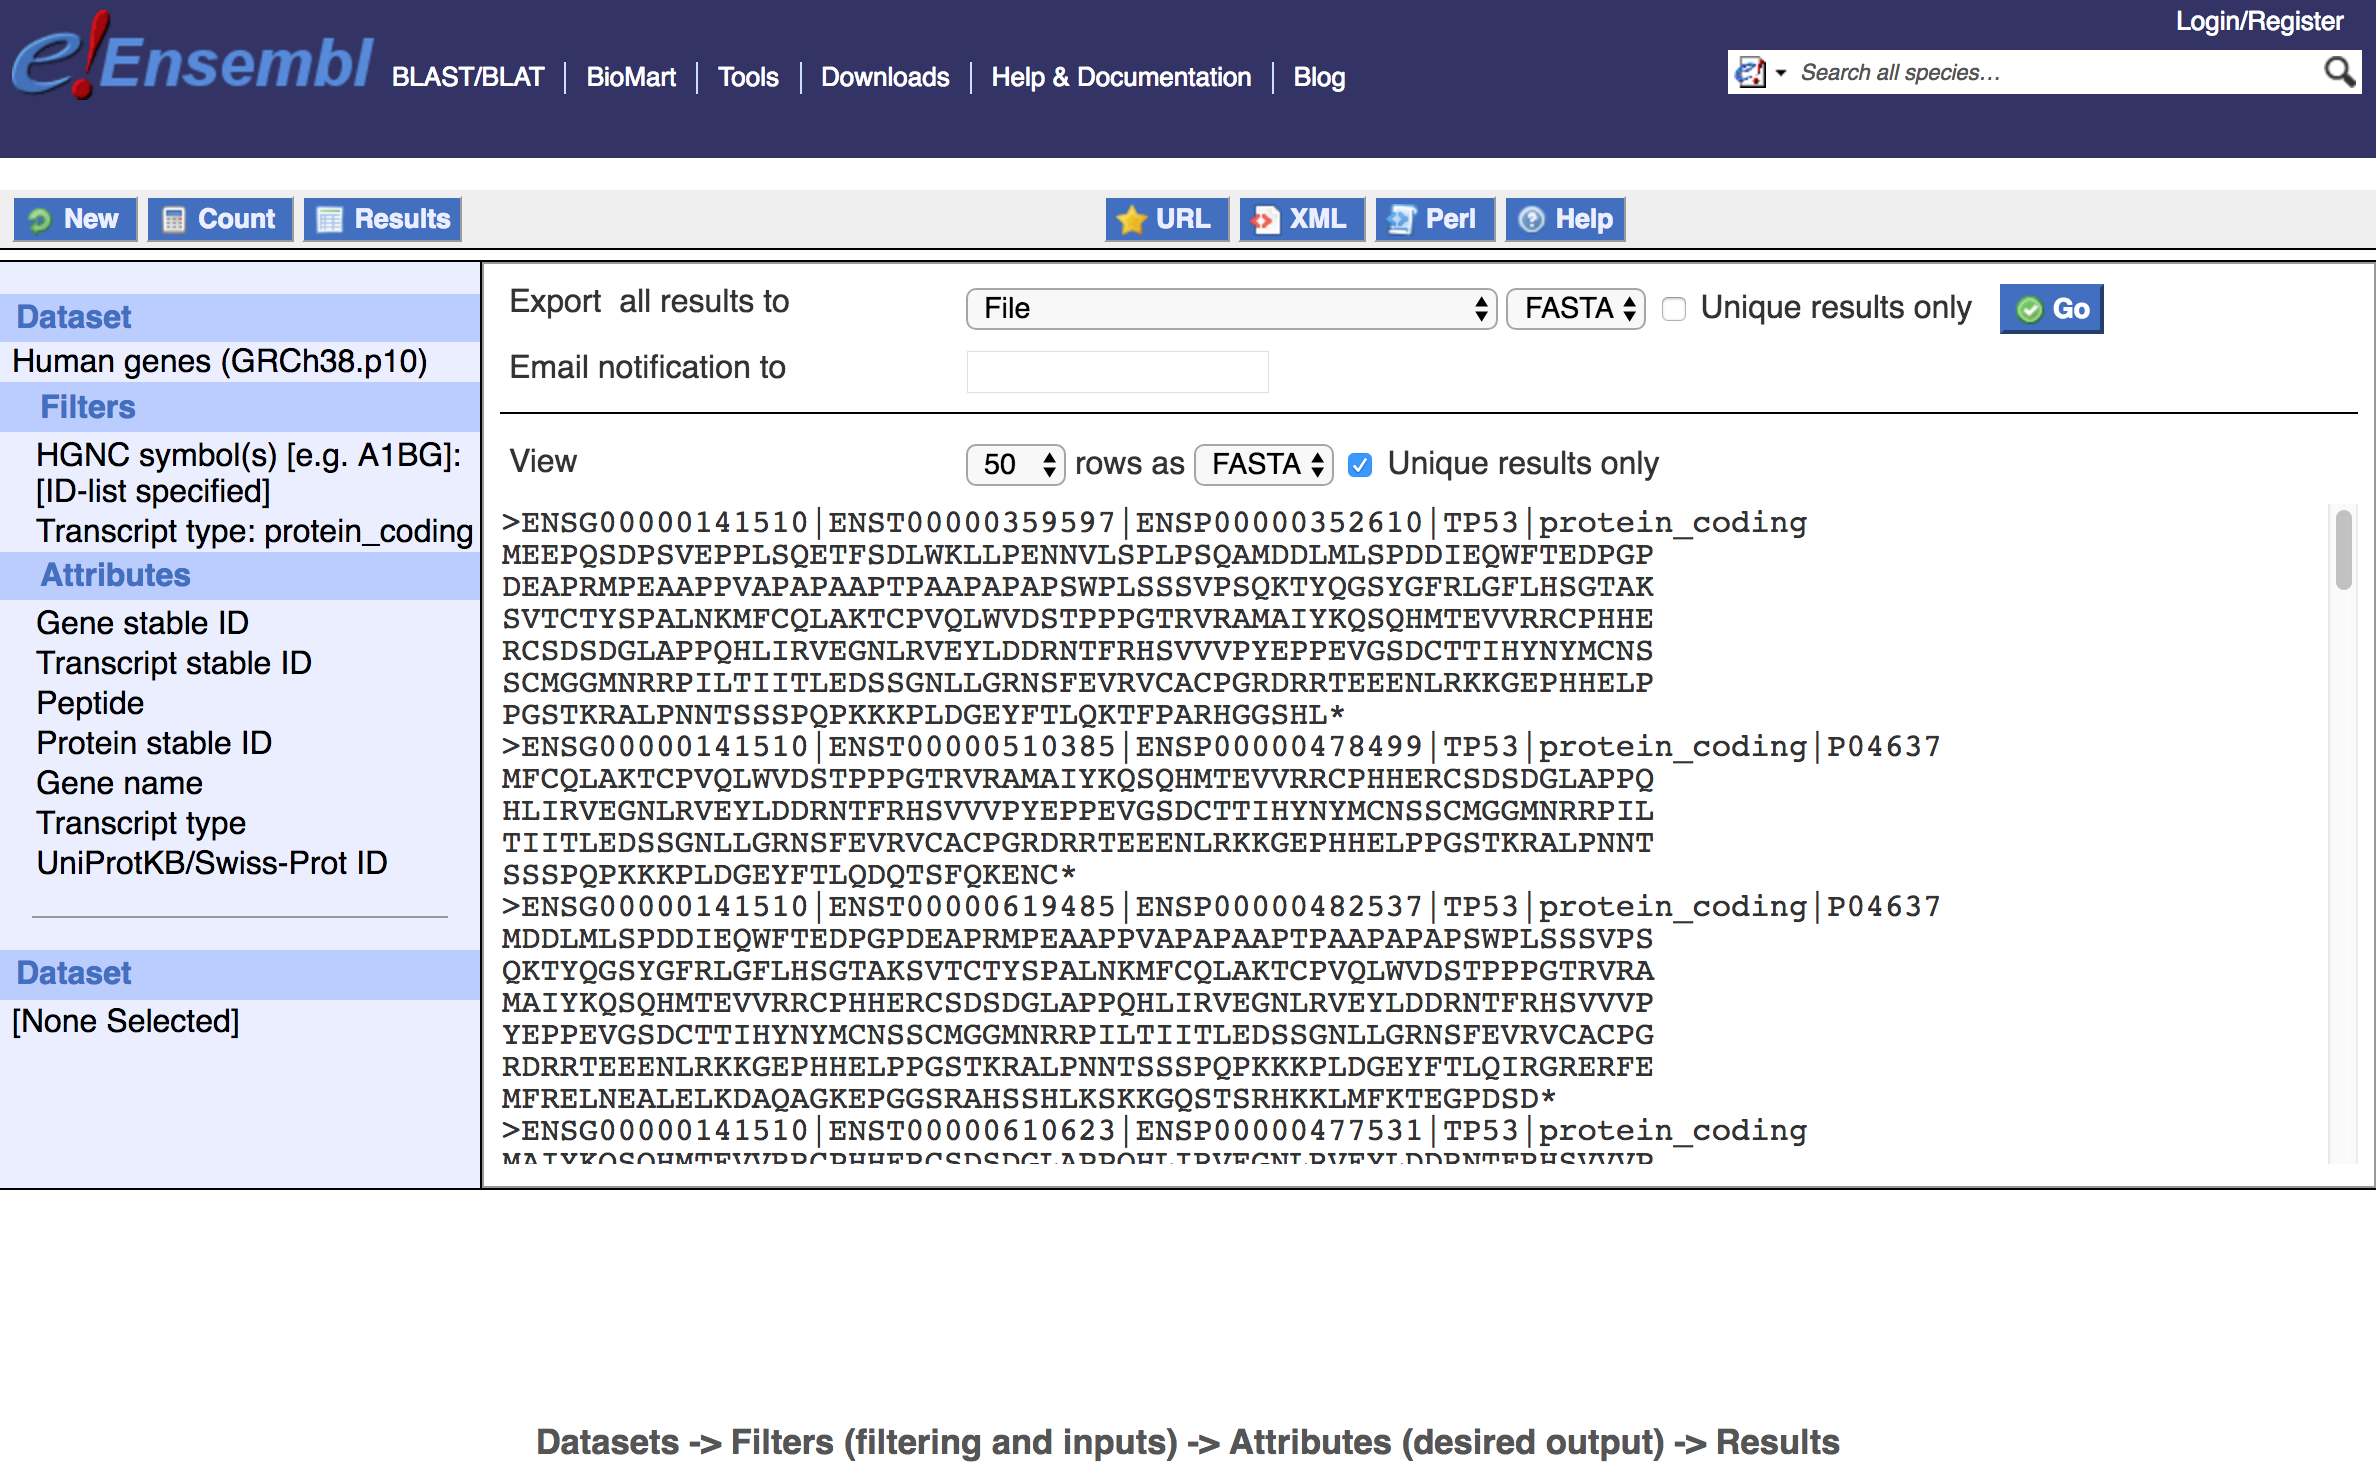
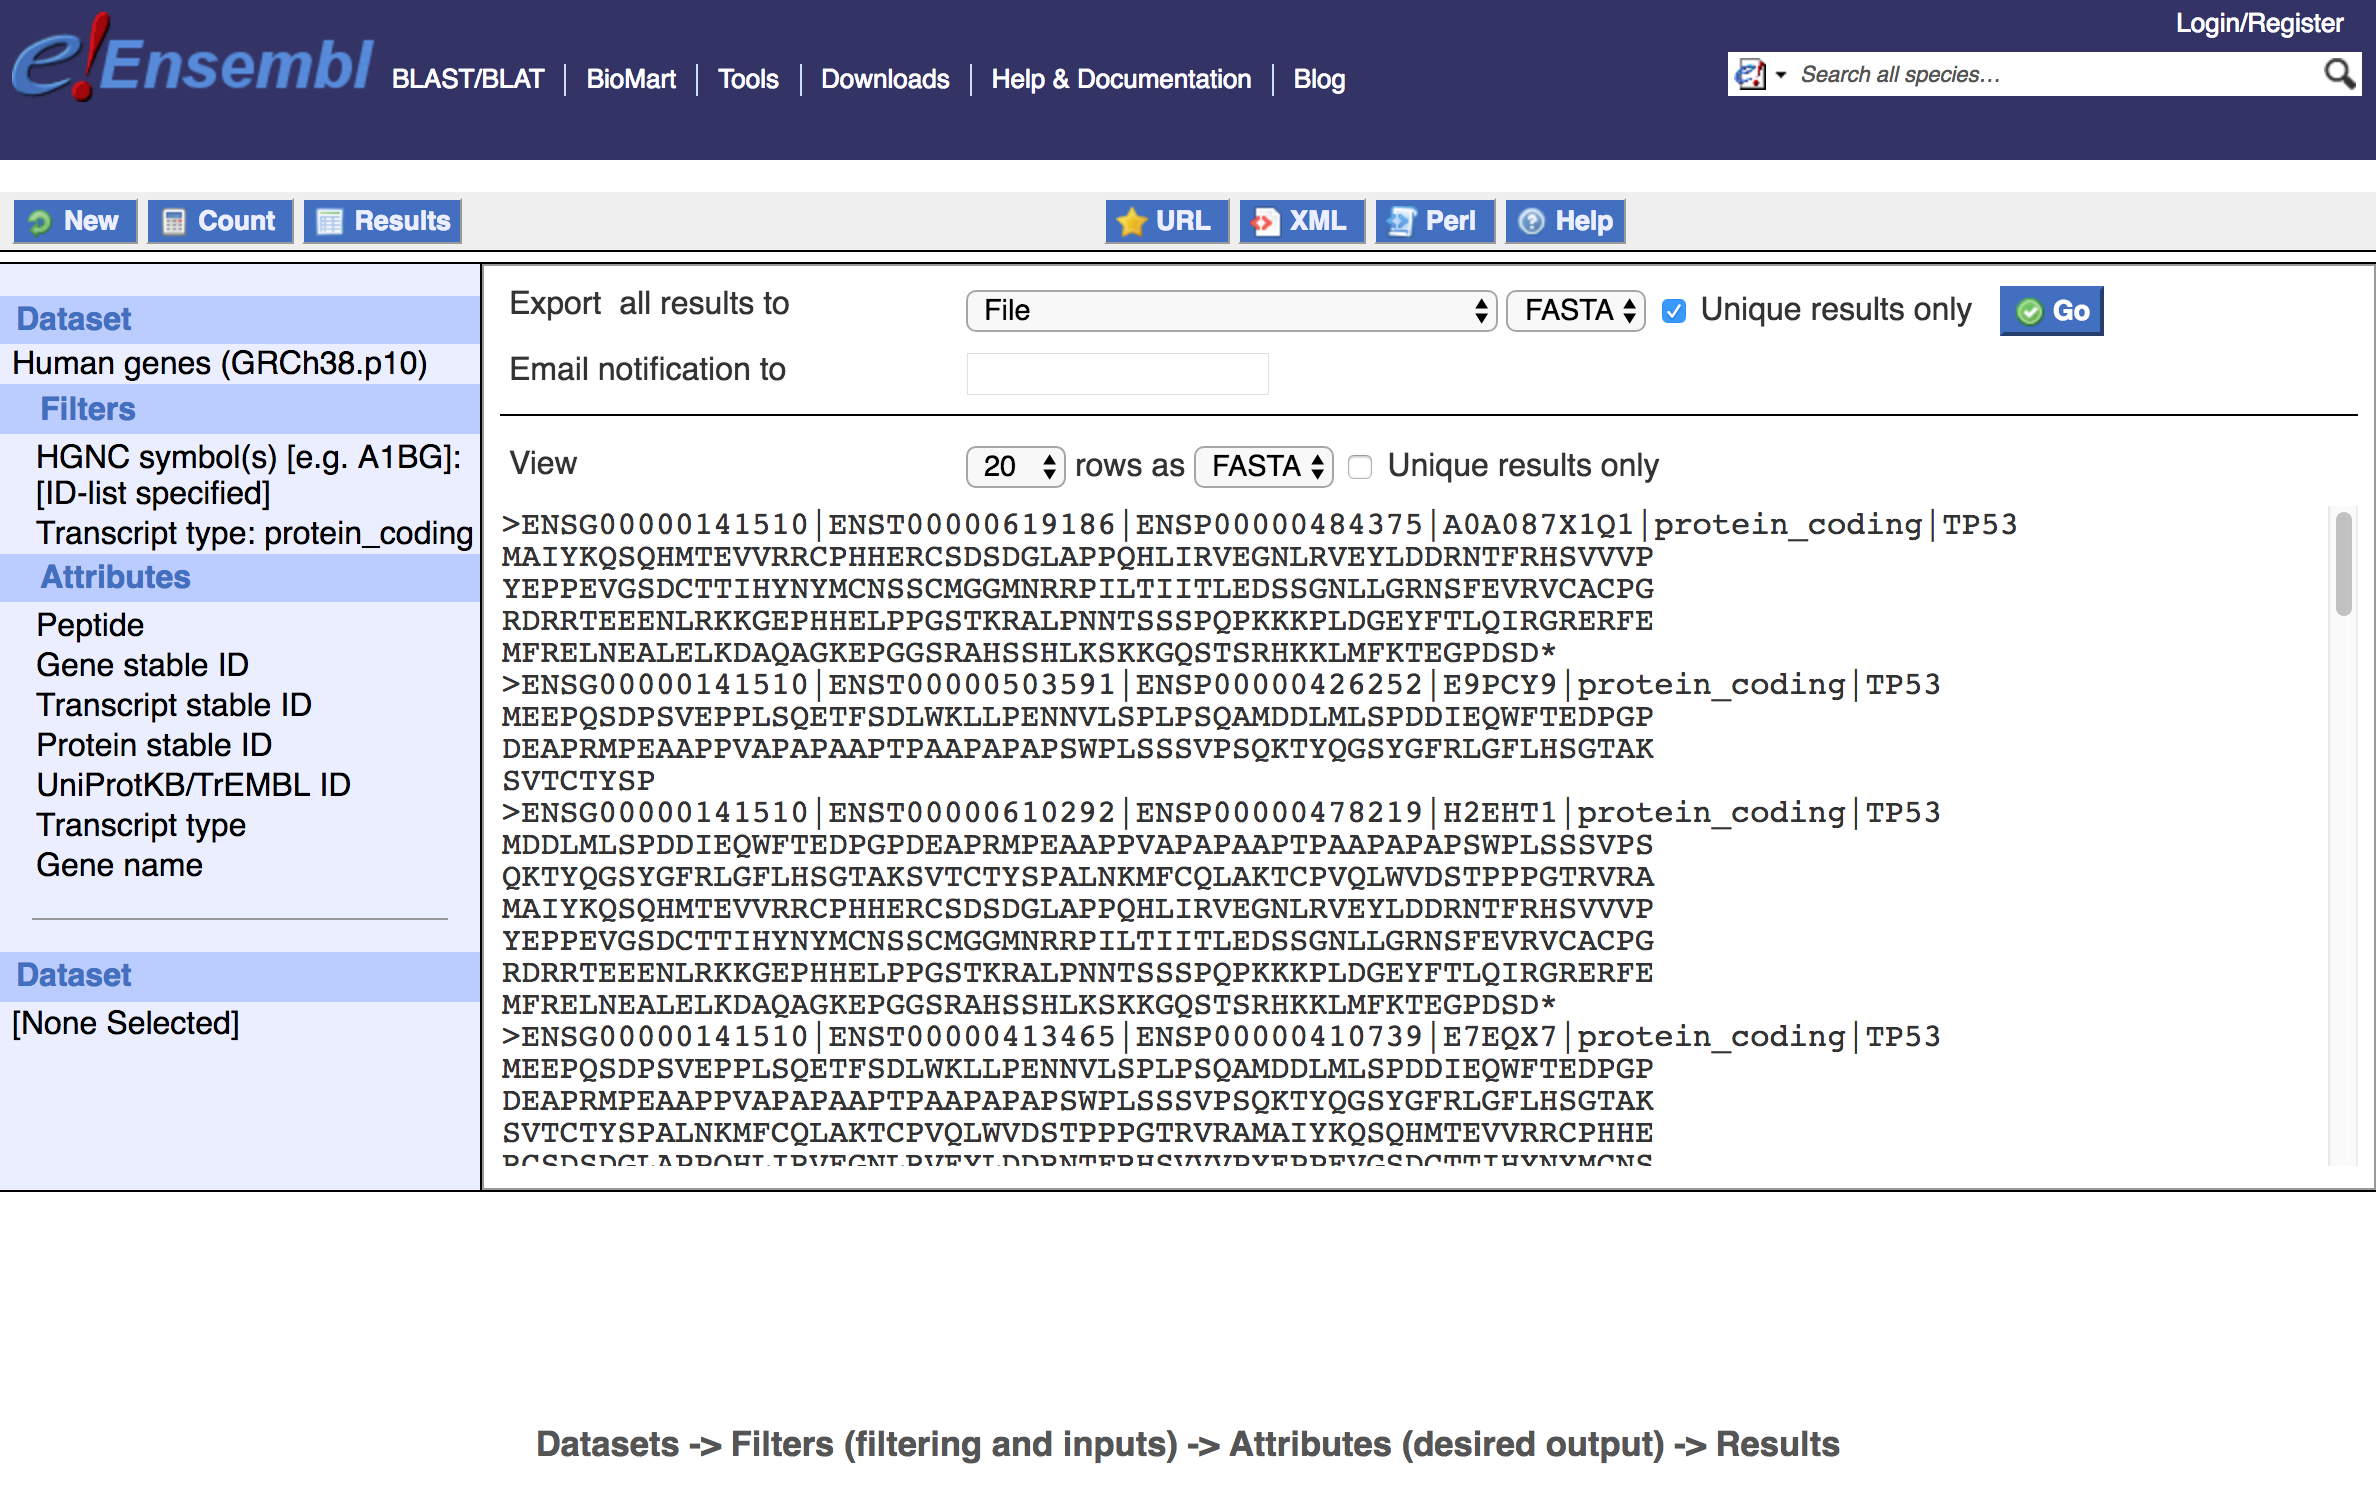
clean up of sequence section of biomart module

diff --git a/_posts/0001-06-01-ensemblBiomart.md b/_posts/0001-06-01-ensemblBiomart.md
@@ -15,11 +15,11 @@ To browse [Ensembl BioMart](http://www.ensembl.org/biomart/martview) you can sim
 
 {% include figure.html image="/assets/BioMart/BioMart_start.png" width="1000" %}
 
-You will first need to select a database from the *CHOOSE DATABASE* menu. Currently, this can be any of: Ensembl Genes, Mouse Strains, Ensembl Variation, or Ensembl Regulation. Note, the database version is included in the name (e.g., Ensembl Genes 90). The Ensembl Genes dataset is probably the most commonly desired choice, depending on your purpose. Next, you will select a dataset from the *CHOOSE DATASET* menu, which for Genes means selecting a species (e.g., Human genes (GRCh38.p10)). For illustration, we will walk through some examples using the *Ensembl Genes 90* database and *Human genes* dataset. Once a database and dataset have been selection, you have the option to apply *Filters* and desired *Attributes* from the left panel. Note that two attributes (Gene stable ID, and Transcript stable ID) have been pre-selected for us.
+To do anything, you will first need to select a database from the *CHOOSE DATABASE* menu. Currently, this can be any of: Ensembl Genes, Mouse Strains, Ensembl Variation, or Ensembl Regulation. Note, the database version is included in the name (e.g., Ensembl Genes 90). The Ensembl Genes dataset is probably the most commonly desired choice, depending on your purpose. Next, you will select a dataset from the *CHOOSE DATASET* menu, which for Genes means selecting a species (e.g., Human genes (GRCh38.p10)). For illustration, we will walk through some examples using the *Ensembl Genes 90* database and *Human genes* dataset. Once a database and dataset have been selected, you have the option to apply *Filters* and desired *Attributes* from the left panel. Note that two attributes (Gene stable ID, and Transcript stable ID) have been pre-selected for us.
 
 {% include figure.html image="/assets/BioMart/BioMart_prefilter.png" width="1000" %}
 
-If we were to select the *Results* we would get the complete Gene and Transcript stable IDs for all genes in the Human Ensembl Genes (v90) database (see below). By default, 10 rows of results in HTML format (including hyperlinks to Ensembl pages) are shown. Selecting *Count* would give us a numerical summary of all records. In this case there are 63,967 results (Ensembl genes) available. We have the option to view or export in HTML or plain text (TSV or CSV) and also to export as XLS. Depending on what attributes are selected for display, there may be redundant results. For example, if we ask for only HGNC symbol as an attribute, BioMart will return the symbol for every Ensembl gene. Some Ensembl genes have the same HGNC symbol. Selecting *Unique results only* will filter out any redundant result rows from the display or exported file. Selecting *New* would reset our BioMart query.
+If we were to select *Results* now you would get the complete Gene and Transcript stable IDs for all genes in the Human Ensembl Genes (v90) database (see below). By default, 10 rows of results in HTML format (including hyperlinks to Ensembl pages) are shown. Selecting *Count* would give us a numerical summary of all records. In this case there are 63,967 results (Ensembl genes) available. We have the option to view or export in HTML or plain text (TSV or CSV) and also to export as XLS. Depending on what attributes are selected for display, there may be redundant results. For example, if we ask for only HGNC symbol as an attribute, BioMart will return the symbol for every Ensembl gene. Some Ensembl genes have the same HGNC symbol. Selecting *Unique results only* will filter out any redundant result rows from the display or exported file. Selecting *New* would reset our BioMart query.
 
 {% include figure.html image="/assets/BioMart/BioMart_simple_results.png" width="1000" %}
 
@@ -28,25 +28,32 @@ The *Filters* option (left panel) allows for very powerful filtering. Again, usi
 
 {% include figure.html image="/assets/BioMart/BioMart_simple_filter.png" width="1000" %}
 
-By selecting *Count* and then *Results*, limiting to *Unique results only* and increasing the *View* to 20, we can see that there are 12 Ensembl genes in this region, including 11 with HGNC symbols. This region includes the genes commonly amplified in HER2+ (ERBB2+) breast cancer. Note that one gene (IKZF3) starts within the filter region but its *Gene end* extends beyond it. This tells us something importance about how BioMart applies coordinate filtering. If we wanted only genes entirely contained within the region we would need to apply our own additional filters. 
+By selecting *Count* and then *Results*, limiting to *Unique results only* and increasing the *View* to 20, we can see that there are 12 Ensembl genes in this region, including 11 with HGNC symbols. This region includes the genes commonly amplified in HER2+ (ERBB2+) breast cancer. Note that one gene (IKZF3) starts within the filter region but its *Gene end* extends beyond it. This tells us something important about how BioMart applies coordinate filtering. If we wanted only genes entirely contained within the region we would need to apply our own additional filters. 
 
 {% include figure.html image="/assets/BioMart/BioMart_simple_filter_results.png" width="1000" %}
 
 ### Gene ID Mapping
 
-Another very common use of BioMart is for gene ID mapping. In the *Gene* section of *Filters* it is possible to limit to only Ensembl genes that have at least one of a specific source of associated external gene ID or associated microarray probe(set). A very large number of such external gene ID sources (e.g., CCDS, Entrez, GO, HGNC, LRG, RefSeq, Unigene, etc) or microarray platforms (e.g., Affymetrix, Agilent, Illumina) are supported. It is also possible to input a list of specific external IDs or probe(set) IDs of interest and get back the matching Ensembl gene records. For example, lets suppose that we had the list of HGNC gene symbols for the HER2-amplified region mentioned above (NEUROD2, PPP1R1B, STARD3, TCAP, PNMT, PGAP3, ERBB2, MIR4728, MIEN1, GRB7, IKZF3) and we wanted to know the corresponding Ensembl gene records and relevant attributes. Create a *New* query and again select the *Ensembl Genes 90* database and *Human genes* dataset. Go to *Filters* -> *GENE*, check *Input external references ID list*, select *HGNC symbol(s)* and enter the above genes in the box (one per line). Now go to *Attributes* -> *Features* and choose GENE: Ensembl - Gene stable ID, Chromosome, Gene start, Gene end, Gene name; EXTERNAL: GO - GO term name; External References - HGNC symbol; Select *Results*.
+Another very common use of BioMart is for gene ID mapping. In the *Gene* section of *Filters* it is possible to limit to only Ensembl genes that have at least one associated external gene ID or microarray probe(set) from a specific source. A very large number of such external gene ID sources (e.g., CCDS, Entrez, GO, HGNC, LRG, RefSeq, Unigene, etc) or microarray platforms (e.g., Affymetrix, Agilent, Illumina) are available. It is also possible to input a list of individual external IDs or probe(set) IDs of interest and get back the matching Ensembl gene records. For example, lets suppose that we had the list of HGNC gene symbols for the HER2-amplified region mentioned above (NEUROD2, PPP1R1B, STARD3, TCAP, PNMT, PGAP3, ERBB2, MIR4728, MIEN1, GRB7, IKZF3) and we wanted to know the corresponding Ensembl gene records and relevant attributes. Create a *New* query and again select the *Ensembl Genes 90* database and *Human genes* dataset. Go to *Filters* -> *GENE*, check *Input external references ID list*, select *HGNC symbol(s)* and enter the above genes in the box (one per line). Now go to *Attributes* -> *Features* and choose GENE: Ensembl - Gene stable ID, Chromosome, Gene start, Gene end, Gene name; EXTERNAL: External References - HGNC symbol; Select *Results*. We now have direct mapping of HGNC symbols to Ensembl Gene IDs and associated attributes. 
 
 {% include figure.html image="/assets/BioMart/BioMart_mapping_results.png" width="1000" %}
 
-Note: It is important to remember that this procedure for mapping only works for genes that are represented in Ensembl gene annotations and is dependent on their internal mapping between identifiers. It is possible that a valid protein might exist in UniProt and might have a valid link to an Entrez gene according to some Entrez or UniProt mapping process. But, if this gene was not successfully annotated in Ensembl or not successfully linked to both of these identifiers then it would be impossible to use BioMart to map from one to the other. Gene ID mapping is complex with multiple types of underlying analysis (methods for sequence or coordinate comparison) and there may be one-to-many or many-to-many relationships. Ensembl and BioMart provide one valuable tool for dealing with this problem but edge cases exist. It is always a good idea to determine which genes have failed to map and determine whether this is acceptable to you. 
+Note: It is important to remember that this procedure for mapping only works for genes that are represented as Ensembl gene annotations and is also dependent on their internal mapping between identifiers. It is possible that a valid protein might exist in another system (e.g., UniProt) and might have a valid link to another system (e.g., Entrez Gene) according to some (Entrez or UniProt) mapping process. But, if this gene was not successfully annotated in Ensembl or not successfully linked to both of these identifiers then it would be impossible to use BioMart to map from one to the other. Gene ID mapping is complex with multiple types of underlying analysis (methods for sequence or coordinate comparison) to determine equivalence and there may be one-to-many or many-to-many relationships. Ensembl and BioMart provide a valuable tool for dealing with this problem. However edge cases exist where it may not suit your purpose. It is always a good idea to determine which genes have failed to map and determine whether this is acceptable to you. 
 
-Also note: In the above query we asked for both the Ensembl Gene name and HGNC symbol. In many cases these are the same but not always. In some cases where an HGNC symbol has not yet (or recently) been assigned Ensembl may choose another source or convention for gene name.
+Also note: In the above query we asked for both the Ensembl Gene name and HGNC symbol. In many cases these are the same but not always. In some cases where an HGNC symbol has not yet (or recently) been assigned, Ensembl may choose another source or convention for its Gene name.
 
 ### Getting Sequence Attributes
 
 Another powerful application of BioMart is for the retrieval of *Sequence* attributes for specific genes or transcripts. Suppose that we would like all peptide sequences for protein-coding transcripts of TP53. Create a *New* query and again select the *Ensembl Genes 90* database and *Human genes* dataset. Go           to *Filters* -> *GENE*, check *Input external references ID list*, select *HGNC symbol(s)* and enter TP53 in the box. Also, select *Transcript type* = *protein_coding*. Now go to *Attributes* -> *Sequences* and choose SEQUENCES: Sequences - Peptide; HEADER INFORMATIN: Gene Information - Gene stable ID, Gene name, UniProtKB/Swiss-Prot ID; Transcript Information - Transcript stable ID, Protein stable ID, Transcript type; Select *Results*.
 
 {% include figure.html image="/assets/BioMart/BioMart_sequences.png" width="1000" %}
+
+Here (above) we see peptide sequences in fasta format for all protein-coding Ensembl transcripts. Where available, the UniProt ID is listed along with Ensembl gene name, and gene, transcript, and protein ids. Download the fasta file by selecting *Export all results*, *File*, *FASTA*, *Unique results only*, and *Go*. Open the file in a text editor/viewer. Note that for some transcripts the peptides do not start with a methionine (e.g., [ENST00000576024](www.ensembl.org/Homo_sapiens/transview?transcript=ENST00000576024)) or end with a stop codon (e.g., [ENST00000503591](www.ensembl.org/Homo_sapiens/transview?transcript=[ENST00000503591)). In some cases these transcripts are automated predictions with limited biological evidence or support. 
+
+
+EXERCISE: 
+MULTISTEP QUERY getting TSL (Transcript support level, limiting to transcripts with only TSL:1)
+
 
 ### Using older versions of Ensembl BioMart
 By default, [Ensembl BioMart](http://www.ensembl.org/biomart/martview) only presents data for the latest, most current version of Ensembl. Older versions can be accessed by navigating to an [Ensembl Archive Site](http://www.ensembl.org/Help/ArchiveList) (linked from the bottom right of every Ensembl page) and then following the BioMart link (top left of every Ensembl Archive page). For example, the last version of Ensembl for the human GRCh37 (hg19) build was v75 (February 2014). The Archive EnsEMBL release 75 was available at [http://feb2014.archive.ensembl.org](http://feb2014.archive.ensembl.org) and the corresponding BioMart at [http://feb2014.archive.ensembl.org/biomart/martview](http://feb2014.archive.ensembl.org/biomart/martview).
